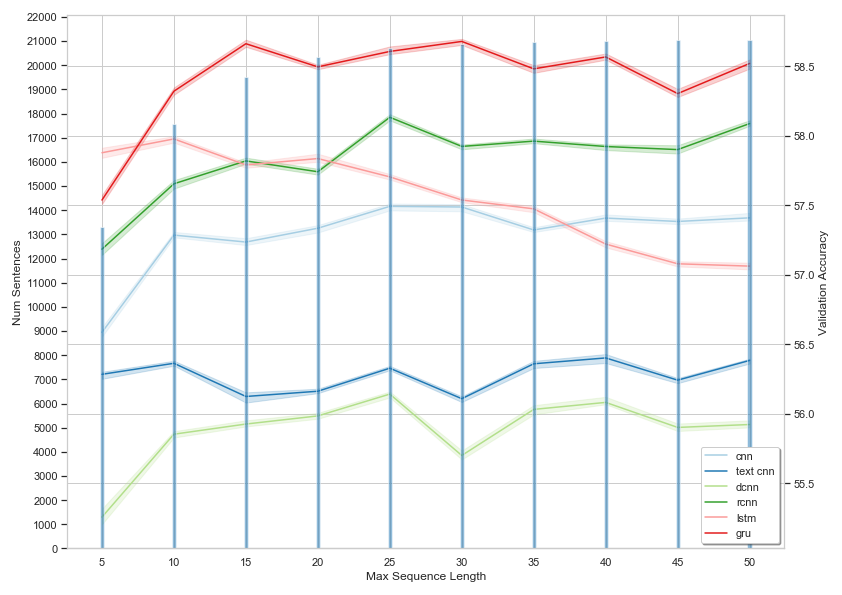
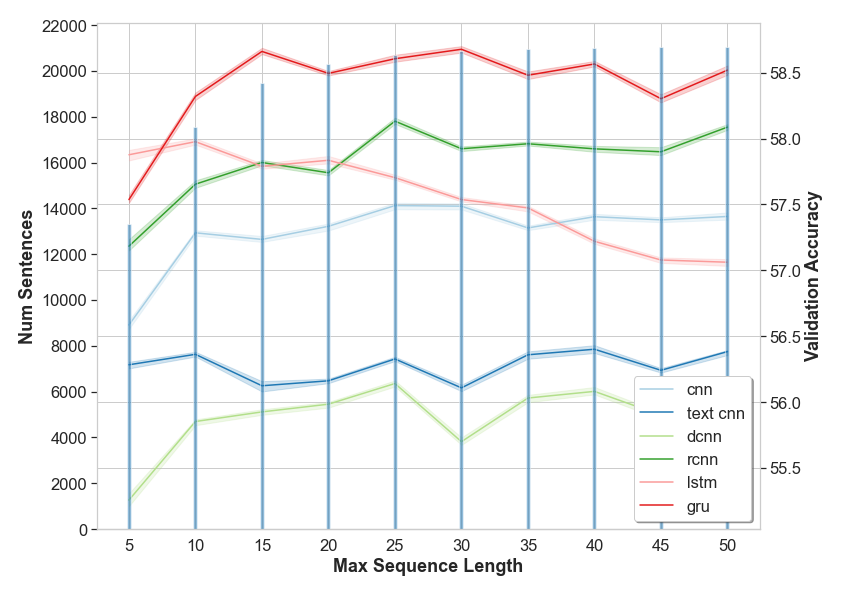
Increase Fontsize on Vocab/seq len and Single Embedding Plots

Changed region(s): [[0.0, 0.0, 0.9881, 0.9983], [0.3705, 0.0303, 0.4014, 0.0605]]

diff --git a/data_processing/plot_utilities.py b/data_processing/plot_utilities.py
@@ -86,7 +86,7 @@ def plot_line_chart(data, x='index', y='value', hue='group', style=None, size=No
 def plot_line_bar_chart(data, bar_data, x='index', y='value', hue='variable', title='', y_label='', x_label='', colour='Paired',
                         style=None, size=None, bar_x='index', bar_y='value', bar_y_label='', bar_width=100,
                         bar_axis_step=None, bar_axis_range=None, bar_alpha=0.5, bar_color='tab:blue',
-                        legend_loc='best', num_legend_col=3):
+                        legend_loc='best', num_legend_col=3, axislabel_fontsize=12, ticklabel_fontsize=12, xtick_rotation=0):
     # If using xkcd colours set the pallet, else use seaborn
     if colour in colour_palettes.keys():
         # Create colour palette for each item in group
@@ -95,7 +95,7 @@ def plot_line_bar_chart(data, bar_data, x='index', y='value', hue='variable', ti
         palette = sns.color_palette(colour, n_colors=len(data[hue].unique()))
 
     # Create the barchart
-    sns.set(rc={'figure.figsize': (11.7, 8.27)}, style='whitegrid')
+    sns.set(rc={'figure.figsize': (11.7, 8.27)}, style='whitegrid', font_scale=1.5)
     g = sns.lineplot(data=data, x=x, y=y, hue=hue, style=style, size=size,
                      err_style='band', ci=24, sort=False, palette=palette)
     sns.despine(ax=g, left=True)
@@ -112,14 +112,21 @@ def plot_line_bar_chart(data, bar_data, x='index', y='value', hue='variable', ti
     # Set line axis labels
     g.yaxis.set_label_position("right")
     g.yaxis.tick_right()
-    g.set_xlabel(x_label)
-    g.set_ylabel(y_label)
+    # g.set_xlabel(x_label, fontsize=axislabel_fontsize, fontweight='bold')
+    # g.set_ylabel(y_label, fontsize=axislabel_fontsize, fontweight='bold')
+    g.set_xlabel(x_label, fontweight='bold')
+    g.set_ylabel(y_label, fontweight='bold')
+    # g.tick_params(labelsize=ticklabel_fontsize)
+    for tick in g.get_xticklabels():
+        tick.set_rotation(xtick_rotation)
 
     # Set bar axis labels
     g2.grid(False)
     g2.yaxis.set_label_position("left")
     g2.yaxis.tick_left()
-    g2.set_ylabel(bar_y_label)
+    # g2.set_ylabel(bar_y_label, fontsize=axislabel_fontsize, fontweight='bold')
+    g2.set_ylabel(bar_y_label, fontweight='bold')
+    # g2.tick_params(labelsize=ticklabel_fontsize)
     if bar_axis_range:
         g2.set_ylim(bar_axis_range)
     if bar_axis_step:
@@ -130,7 +137,7 @@ def plot_line_bar_chart(data, bar_data, x='index', y='value', hue='variable', ti
     plt.xticks(data[x].unique())
 
     # Set main title
-    g.set_title(title, fontsize=14, fontweight='bold')
+    g.set_title(title, fontsize=24, fontweight='bold')
 
     plt.tight_layout()
     return g.get_figure()
@@ -382,8 +389,9 @@ def plot_heatmap(data, title='', y_label='', x_label='', colour='RdBu_r', num_co
     g = sns.heatmap(data, annot=annotate, fmt=num_format, linewidths=linewidth, linecolor=linecolour,
                     square=square, cmap=palette, center=center_val, cbar=show_cbar, annot_kws={"fontsize":annot_font_size})
     # Set axis labels
+    vert_alignment = 'center' if y_tick_rotation != 0 else 'right'
     g.set_xticklabels(g.get_xticklabels(), size=annot_font_size, rotation=x_tick_rotation)
-    g.set_yticklabels(g.get_yticklabels(), size=annot_font_size, rotation=y_tick_rotation)
+    g.set_yticklabels(g.get_yticklabels(), size=annot_font_size, rotation=y_tick_rotation, va=vert_alignment)
     g.set_xlabel(x_label)
     g.set_ylabel(y_label)
 
@@ -488,8 +496,9 @@ def plot_relplot(data, x='index', y='value', hue='group', row=None, col='metric'
 
 def plot_facetgrid(data, x='index', y='value', hue='group', row=None, col='metric', kind='bar',
                    title='', y_label='', x_label='', axis_titles=False, share_x=False, share_y=False, num_col=2,
-                   colour='Paired', num_colour=None, legend_loc='best', num_legend_col=3, all_legend=False, height=6, aspect=2,
-                   show_bar_value=False, bar_value_rotation=0, x_tick_rotation=0, y_tick_rotation=0, **kwargs):
+                   colour='Paired', num_colour=None, legend_loc='best', num_legend_col=3, all_legend=False,
+                   height=6, aspect=2, show_bar_value=False, bar_value_rotation=0,
+                   x_tick_rotation=0, y_tick_rotation=0, **kwargs):
 
     # Facet grid plot functions
     def _scatter(*args, **kwargs):
